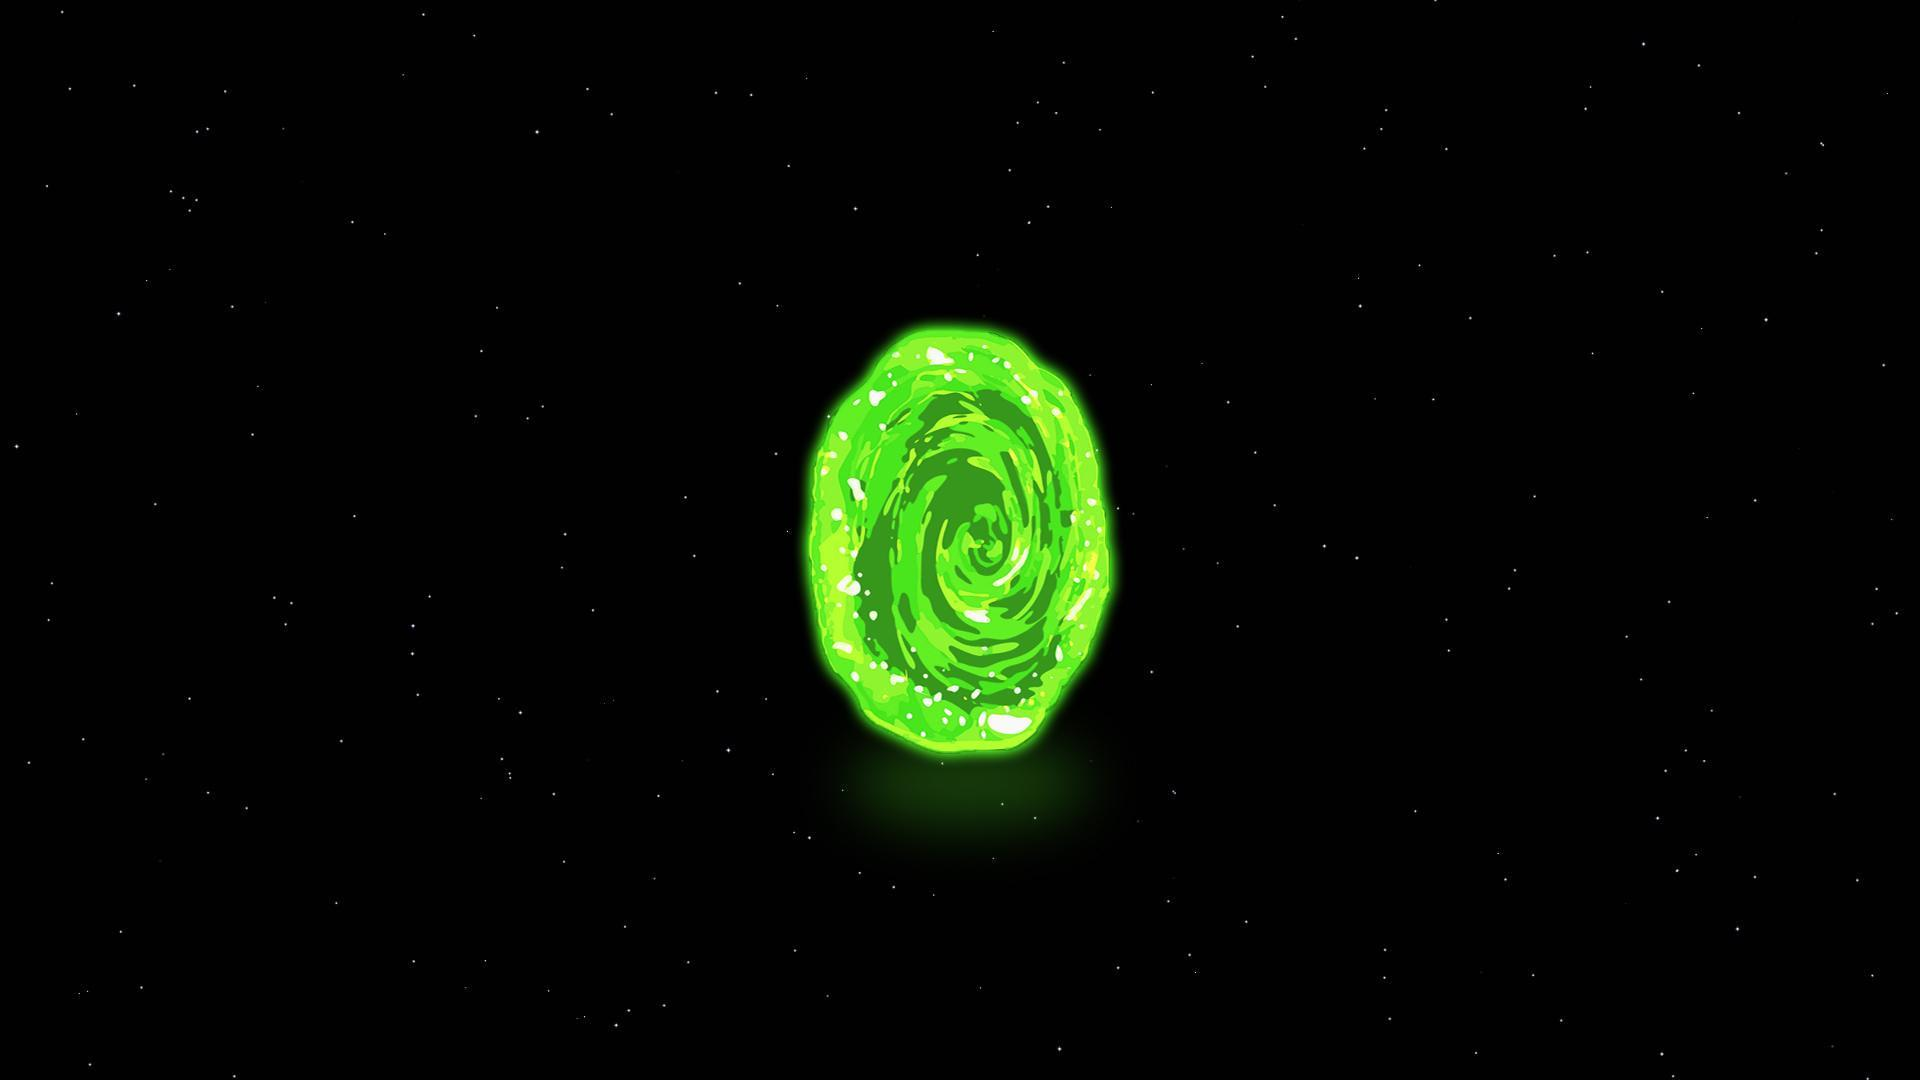
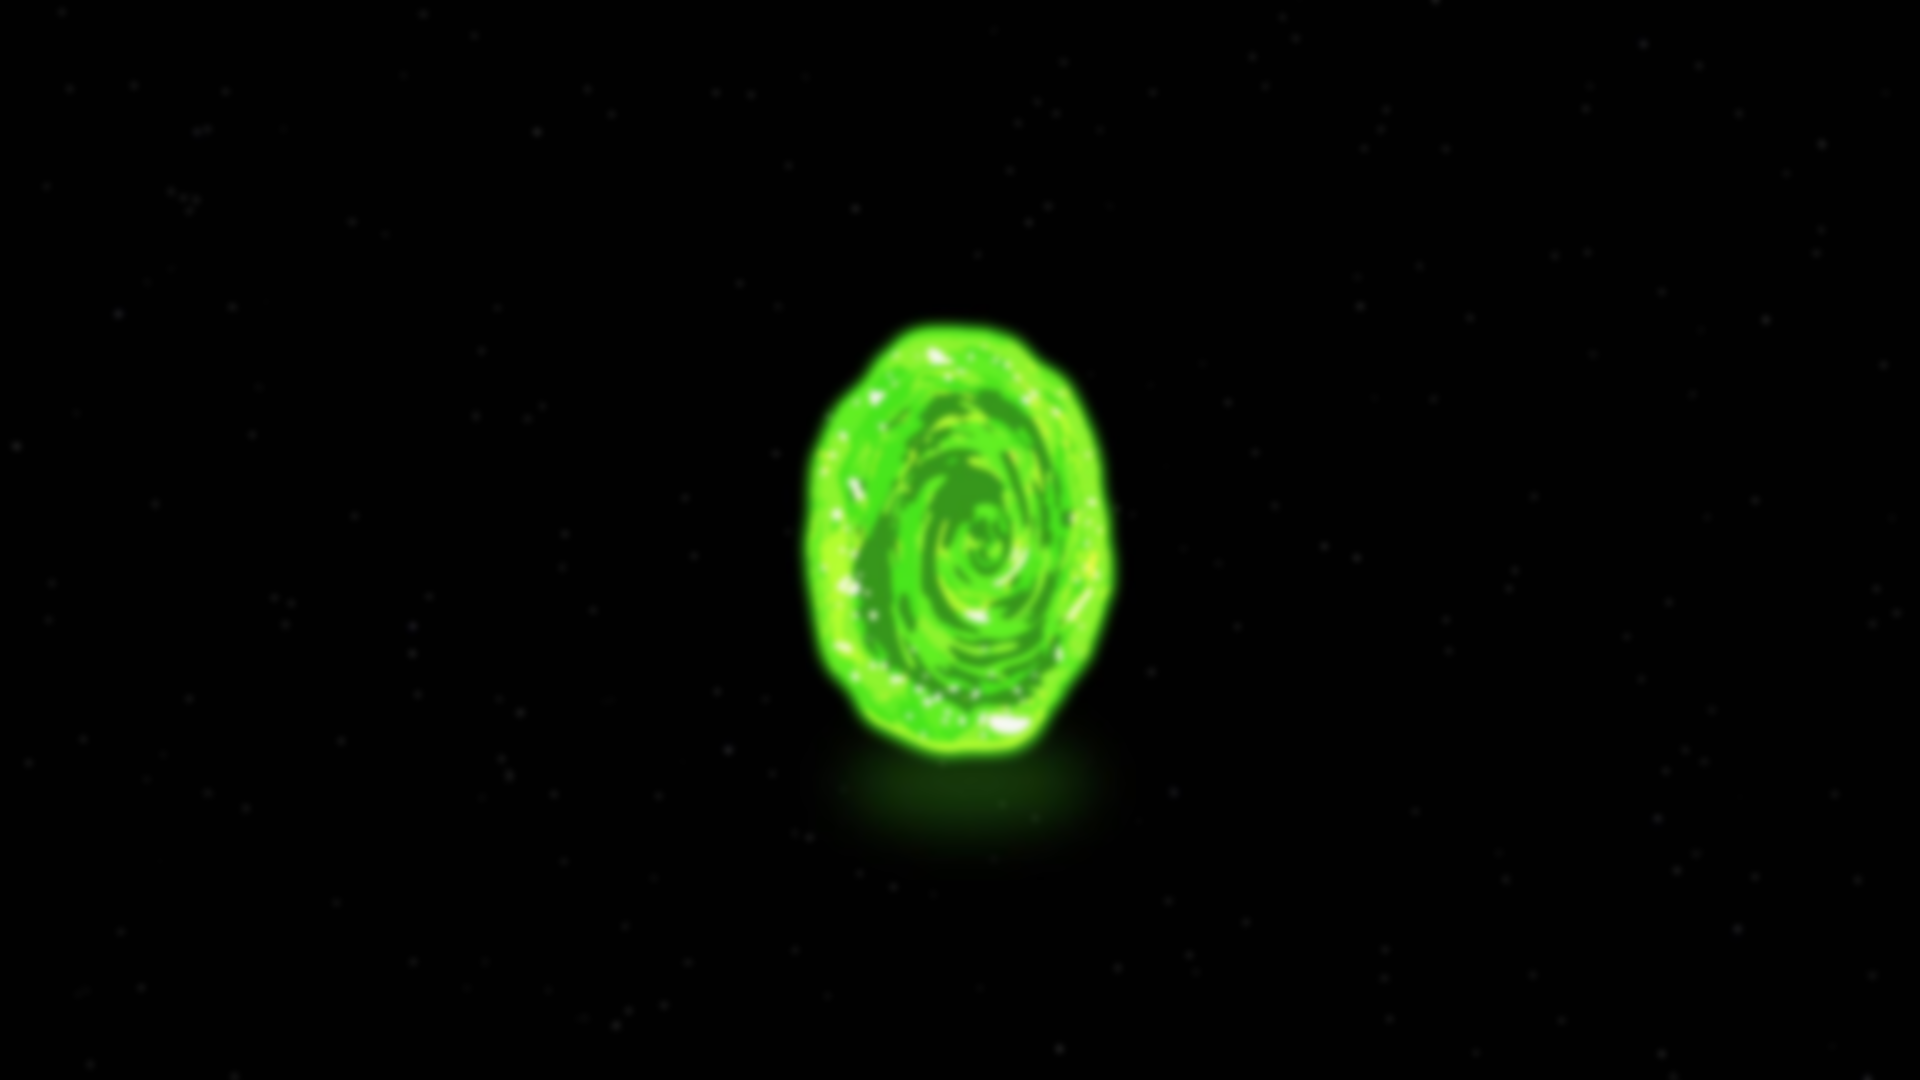
Changed background image and css

Changed region(s): [[0.4062, 0.3056, 0.5938, 0.7028]]

diff --git a/src/styles/App.css b/src/styles/App.css
@@ -95,8 +95,8 @@ p, h1, button {
 }
 
 .background {
-  filter: blur(4px);
-  -webkit-filter: blur(4px);
+  /* filter: blur(4px);
+  -webkit-filter: blur(4px); */
   background-size: cover;
   background-position: center;
 }
